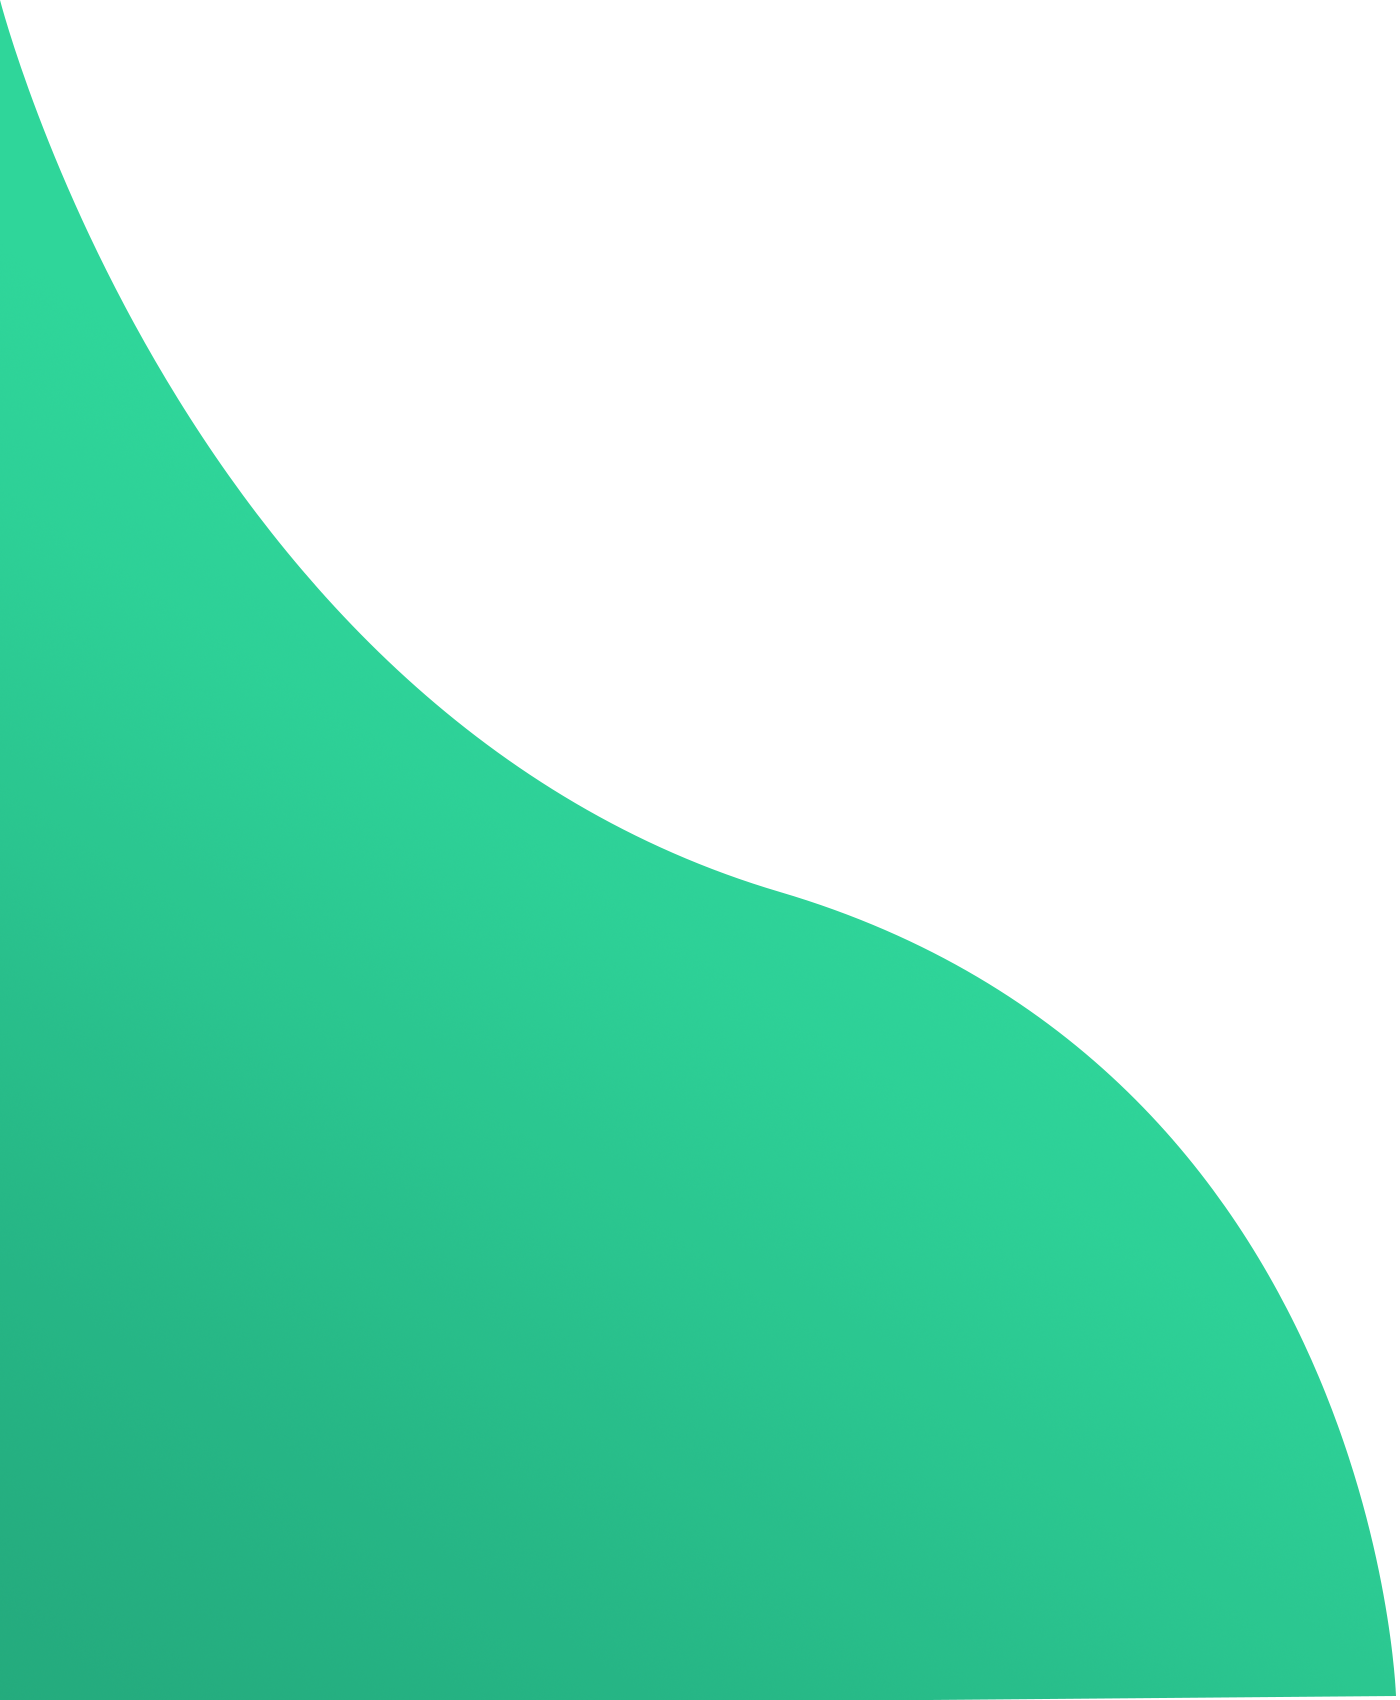
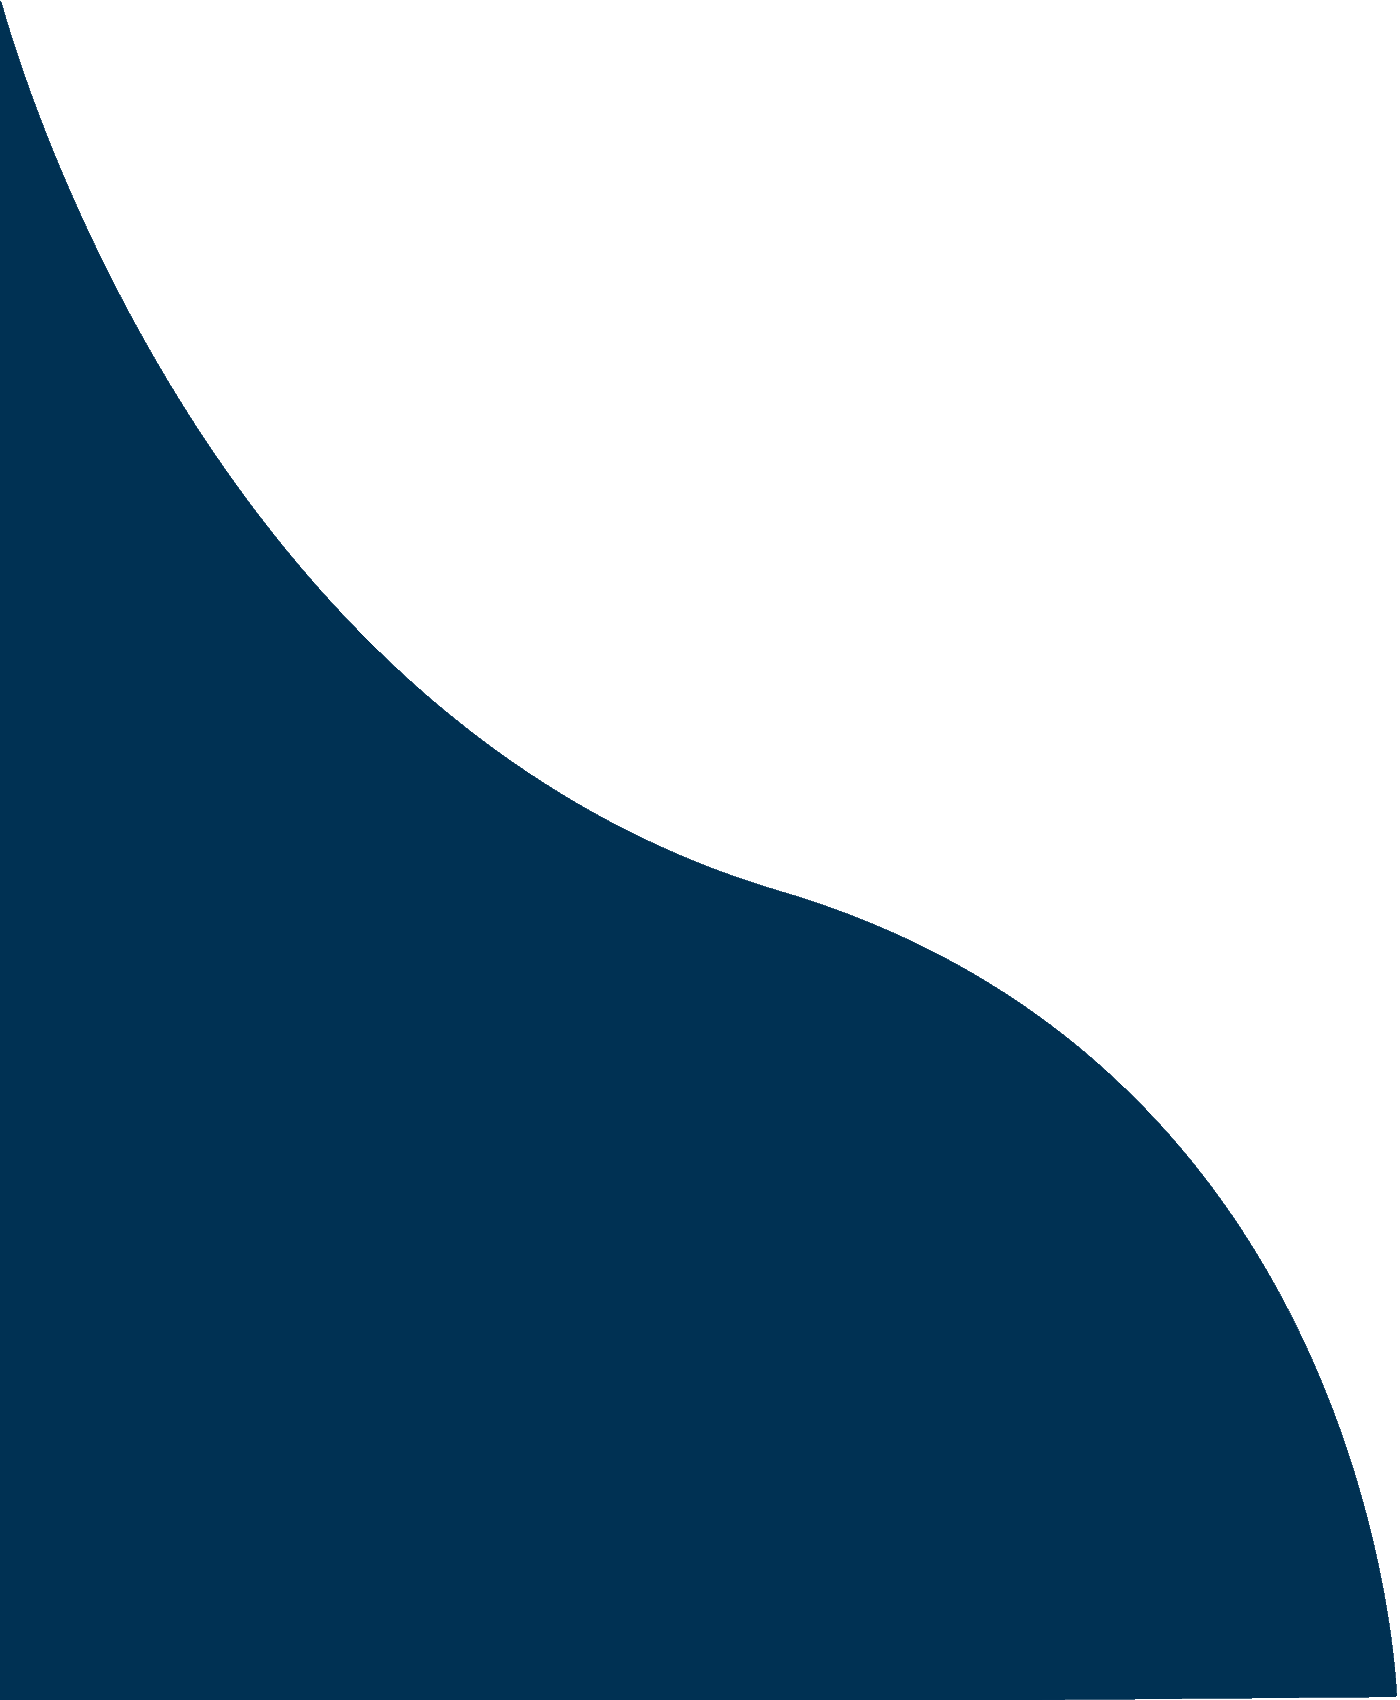
update login color

diff --git a/src/main/webapp/css/style.css b/src/main/webapp/css/style.css
@@ -103,7 +103,7 @@ form{
 	bottom: -2px;
 	width: 0%;
 	height: 2px;
-	background-color: #38d39f;
+	background-color: #003153;
 	transition: .4s;
 }
 
@@ -157,7 +157,7 @@ a{
 }
 
 a:hover{
-	color: #38d39f;
+	color: #003153;
 }
 
 .btn{
@@ -167,7 +167,7 @@ a:hover{
 	border-radius: 25px;
 	outline: none;
 	border: none;
-	background-image: linear-gradient(to right, #32be8f, #38d39f, #32be8f);
+	background-image: linear-gradient(to right, #003853, #003153, #002353);
 	background-size: 200%;
 	font-size: 1.2rem;
 	color: #fff;

diff --git a/src/main/java/test/Test.java b/src/main/java/test/Test.java
@@ -16,7 +16,7 @@ public class Test {
 
         UserService service = new UserServiceImpl();
         User user = new User();
-        user.setIdUser(1);
+        //user.setIdUser(1);
         user.setUsername("71397835");
         System.out.println(service.findUserByUser(user));
 

diff --git a/src/main/java/com/RealParking/persitence/service/UserServiceImpl.java b/src/main/java/com/RealParking/persitence/service/UserServiceImpl.java
@@ -1,6 +1,5 @@
 package com.RealParking.persitence.service;
 
-import com.RealParking.persitence.entity.Role;
 import com.RealParking.persitence.entity.User;
 import javax.persistence.EntityManager;
 import javax.persistence.EntityManagerFactory;
